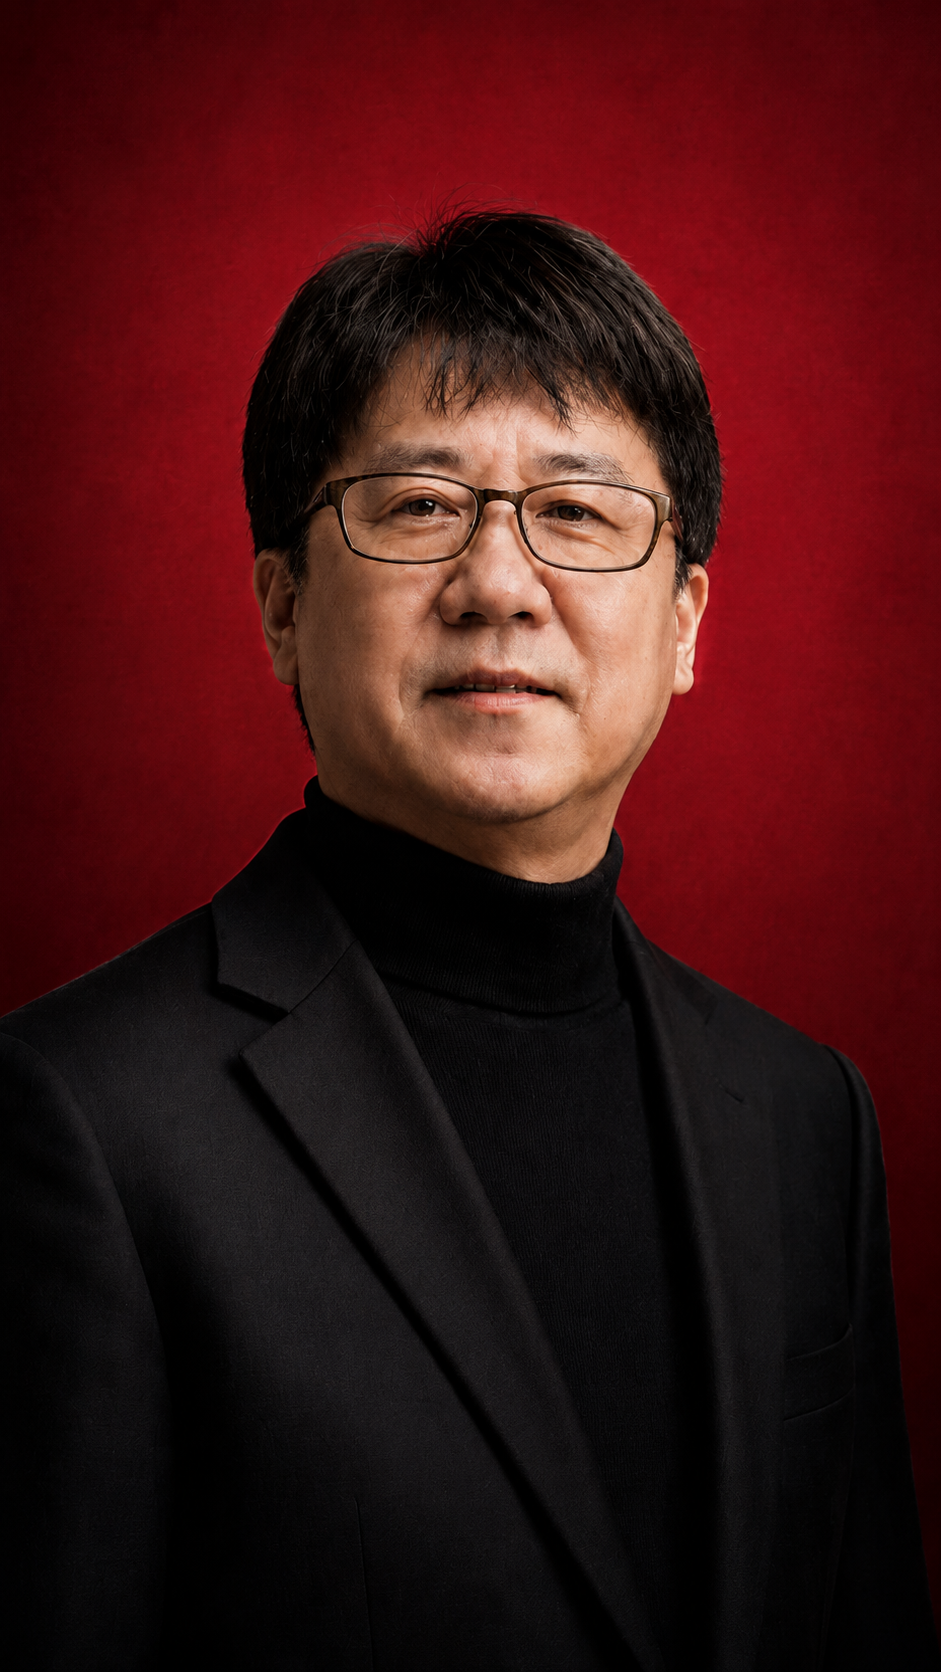
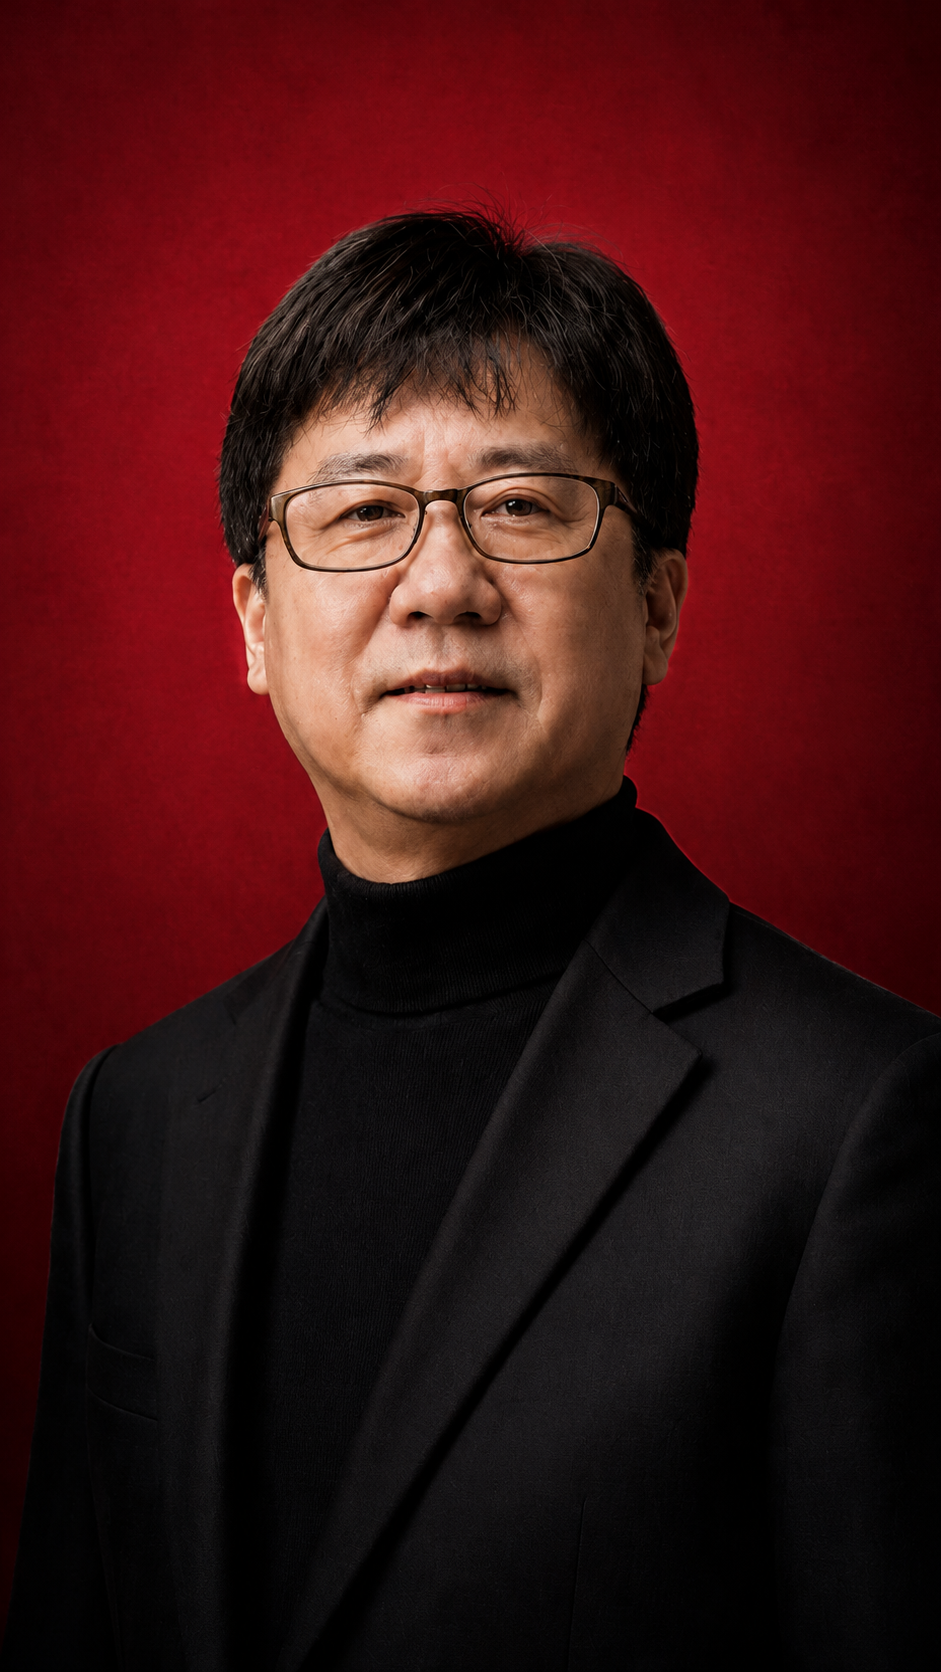
Add files via upload

diff --git a/style.css b/style.css
@@ -27,7 +27,7 @@ body {
   margin: 0;
   background:
     radial-gradient(circle at top right, rgba(125, 216, 255, 0.24), transparent 28rem),
-    linear-gradient(180deg, #07182f 0, #0b1e39 360px, var(--paper) 361px);
+    linear-gradient(180deg, #07182f 0, #0b1e39 440px, var(--paper) 441px);
   color: var(--ink);
   font-family:
     Pretendard,
@@ -53,9 +53,9 @@ body {
 
 .hero-grid {
   display: grid;
-  grid-template-columns: minmax(0, 1fr) 320px;
+  grid-template-columns: minmax(0, 1fr) 360px;
   align-items: center;
-  gap: 34px;
+  gap: 28px;
 }
 
 .hero-copy {
@@ -199,7 +199,7 @@ h1 {
 .news-link em {
   display: inline-block;
   min-width: 28px;
-  color: var(--navy);
+  color: #1d5d8f;
   font-size: 0.9rem;
   font-style: normal;
   font-weight: 950;